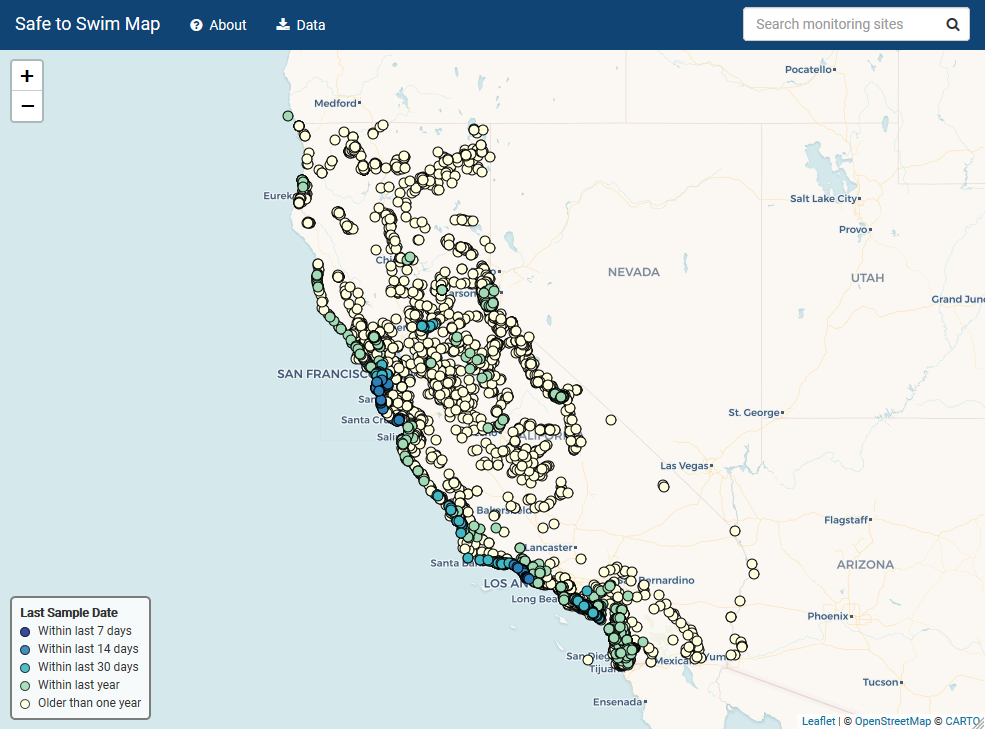
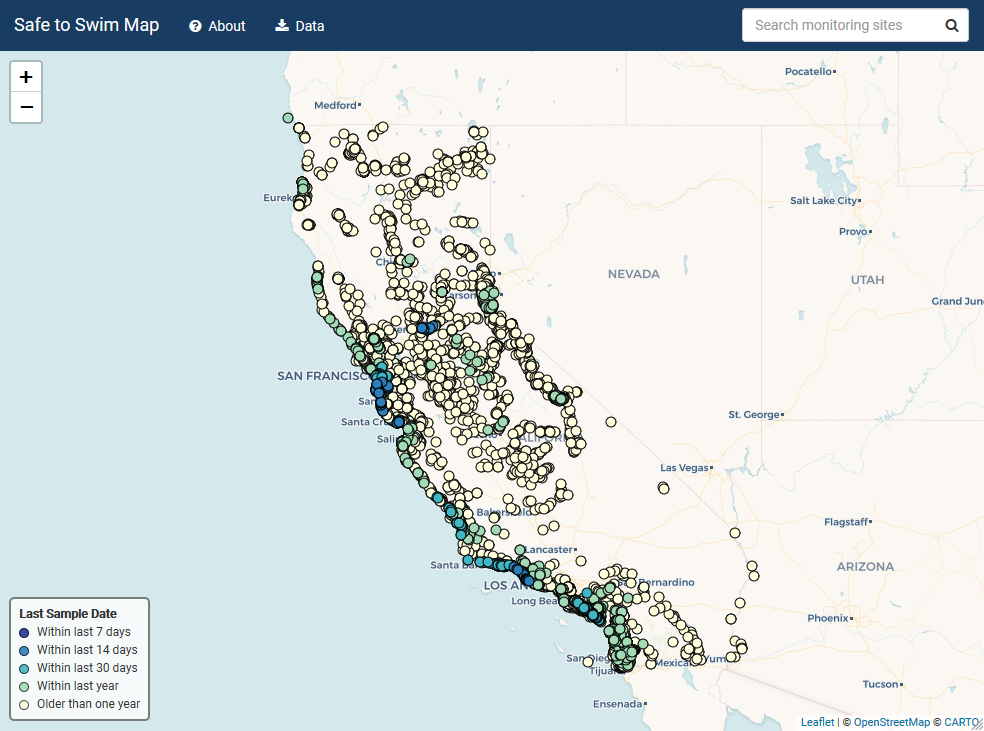
feat: changed chart colors, updated screenshots

diff --git a/js/app.js b/js/app.js
@@ -366,7 +366,7 @@ $('#nav-btn').click(function() {
 
 function addFilterMenu() {
     var filterContainer = document.getElementById('filter-container');
-    var content = '<div id="filter-menu"><div class="form-check"><label><input id="filter-result" value="data" class="form-check-input" type="checkbox" checked>&nbsp;<i class="fa fa-circle data-dot" aria-hidden="true"></i>&nbsp;&nbsp;Samples</label></div><div id="gm-form-container" class="form-check"><label><input id="filter-geomean" value="geomean" class="form-check-input" type="checkbox" checked>&nbsp;<img src="assets/triangle.gif">&nbsp;&nbsp;Geometric mean&nbsp;&nbsp;<a href="#"><i class="fa fa-question-circle pop-left" data-toggle="popover" title="Geometric Mean" data-content="For E. coli and enterococci only: the six-week geometric mean is calculated weekly on a rolling basis, starting with the most recent sample date. At least two sample results are required for the calculation. Position the mouse cursor over a geometric mean chart element to highlight the date period used in the calculation."></i></a></label></div></div>';
+    var content = '<div id="filter-menu"><div class="form-check"><label><input id="filter-result" value="data" class="form-check-input" type="checkbox" checked>&nbsp;<i class="fa fa-circle data-dot" aria-hidden="true"></i>&nbsp;&nbsp;Samples</label></div><div id="gm-form-container" class="form-check"><label><input id="filter-geomean" value="geomean" class="form-check-input" type="checkbox" checked>&nbsp;<img src="assets/triangle.gif">&nbsp;Geometric mean&nbsp;&nbsp;<a href="#"><i class="fa fa-question-circle pop-left" data-toggle="popover" title="Geometric Mean" data-content="For E. coli and enterococci only: the six-week geometric mean is calculated weekly on a rolling basis, starting with the most recent sample date. At least two sample results are required for the calculation. Position the mouse cursor over a geometric mean chart element to highlight the date period used in the calculation."></i></a></label></div></div>';
     filterContainer.innerHTML = content;
     updateFilters();
 }
@@ -951,7 +951,8 @@ var chartOpacity = 0.8;
 var currentAnalyte; 
 var currentScale = 'linear';
 var lastSite = new Object();
-var mainColor = '#1f78b4', secColor = '#ff7f0e';
+// var mainColor = '#1f78b4', secColor = '#ff7f0e';
+var mainColor = '#145785', secColor = '#e86348';
 var MS_PER_DAY = (24 * 60 * 60 * 1000);
 var parseDate = d3.timeParse('%Y-%m-%d %H:%M:%S');
 var recordLimit = 10000;

diff --git a/css/app.css b/css/app.css
@@ -229,8 +229,8 @@ body {
 }
 
 .navbar-inverse {
-    background-color: #0F4475;
-    border-color: #0F4475;
+    background-color: #193c62;
+    border-color: #193c62;
 }
 
 .navbar-inverse .navbar-nav > .open > a, 
@@ -281,7 +281,7 @@ body {
 }
 
 .data-dot {
-    color: #1f78b4;
+    color: #145785;
 }
 
 .circles {

diff --git a/README.md b/README.md
@@ -1,7 +1,7 @@
 # Safe to Swim Interactive Map
 
-- Author: Michelle Tang (https://github.com/mmtang/r6-water-quality)
-- Agency: California State Water Resources Control Board, Office of Information Management and Analysis
+- Author: Michelle Tang (https://github.com/mmtang/safe-to-swim)
+- Agency: California State Water Resources Control Board
 
 ## About
 
